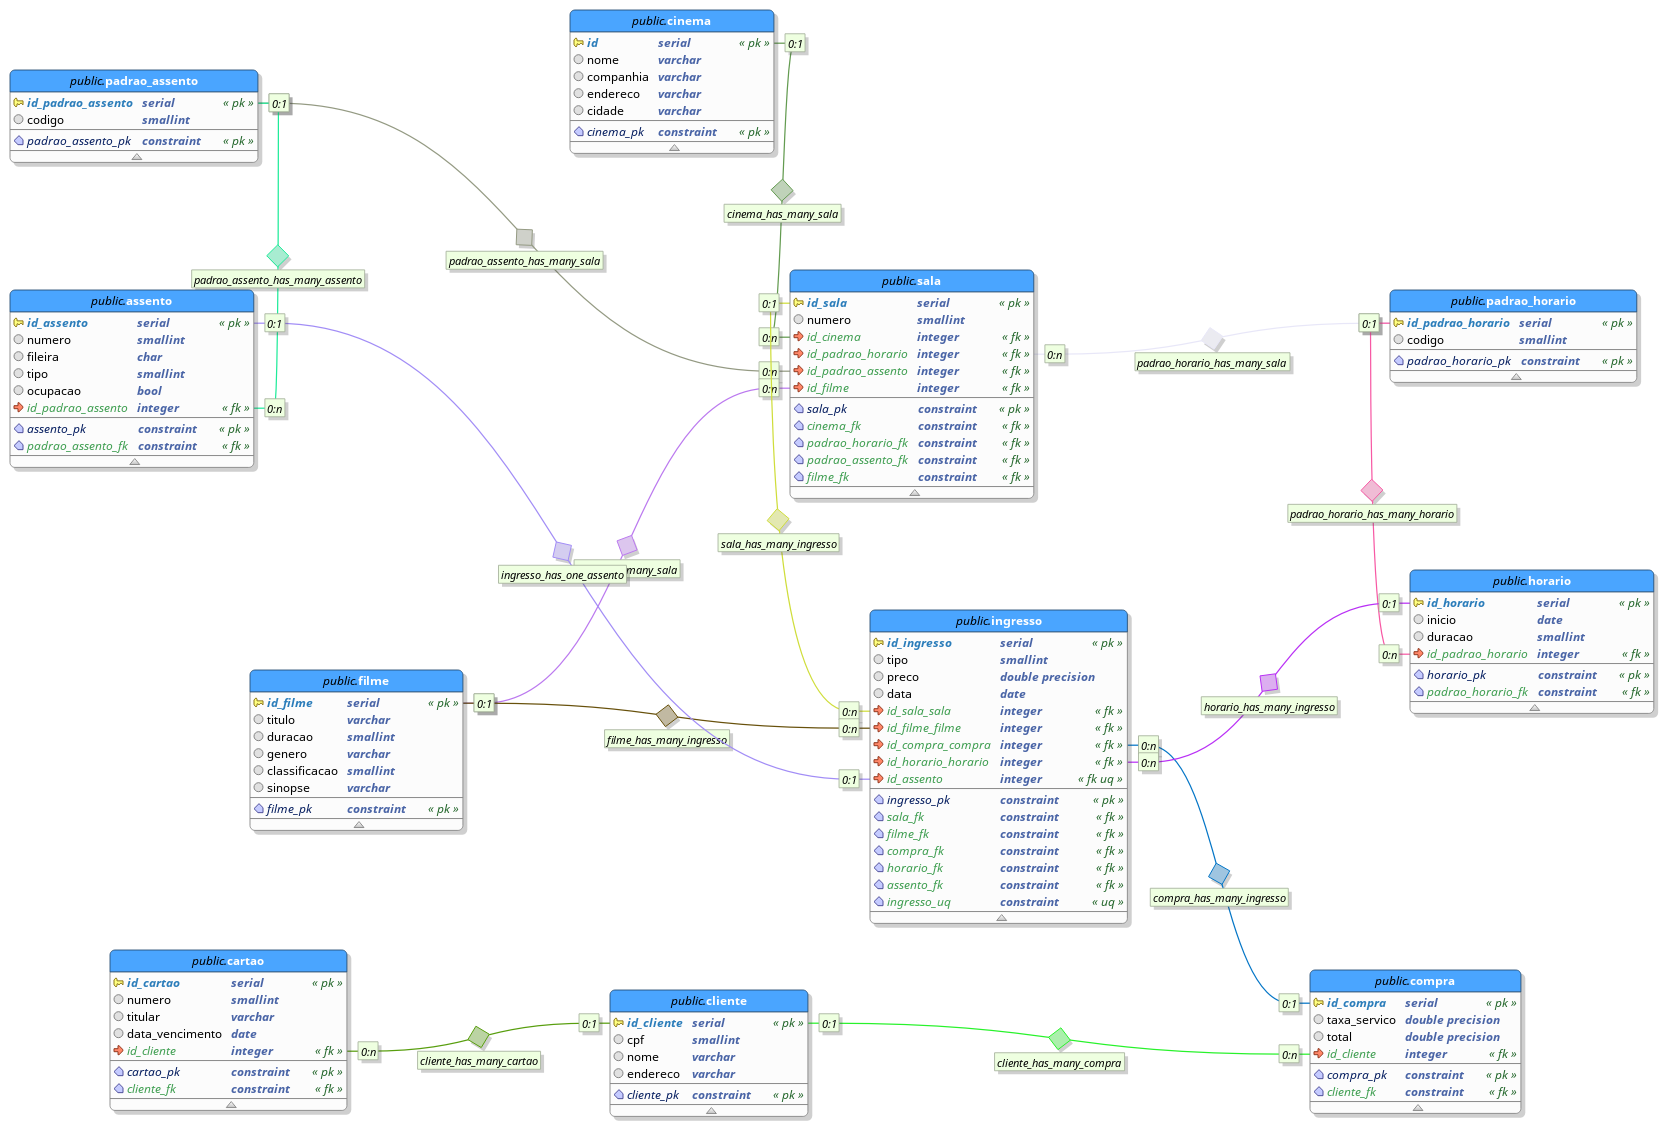
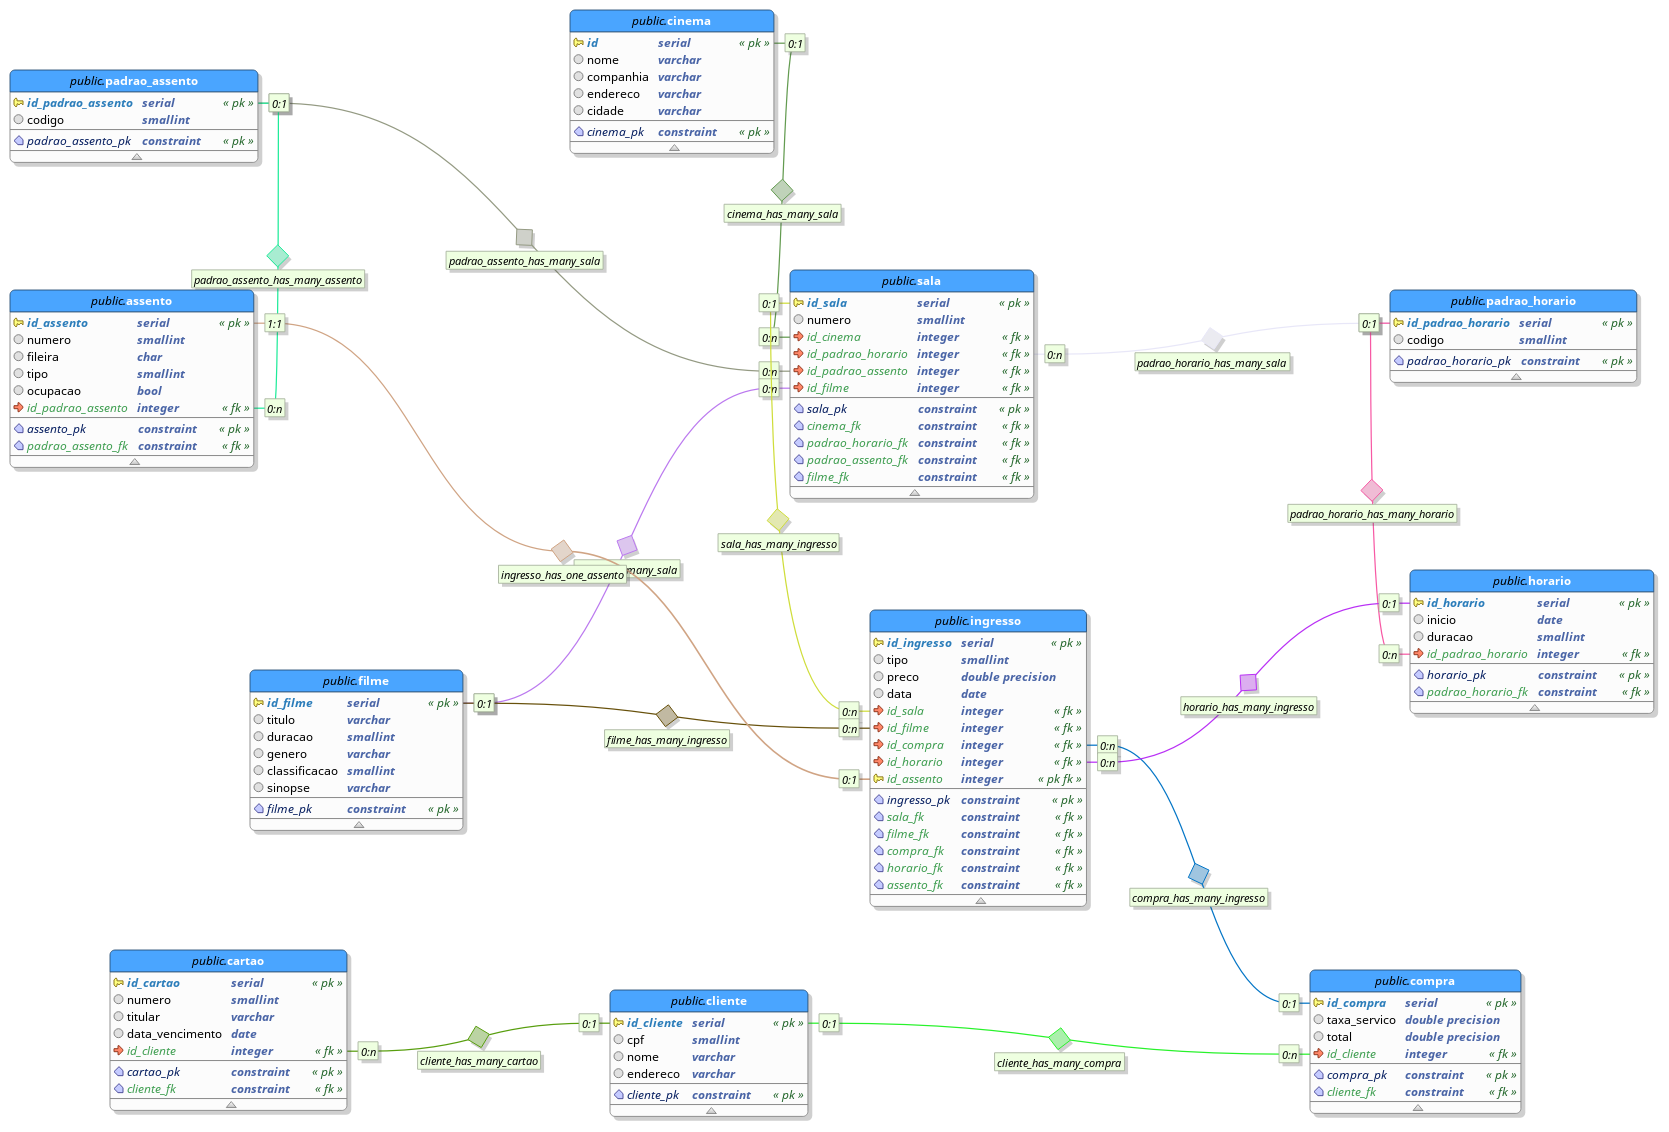
Api funcionando com os métodos básicos de inserção, consulta, update e delete.

Changed region(s): [[0.5297, 0.5256, 0.8101, 0.8348], [0.3116, 0.4638, 0.3427, 0.4947]]

diff --git a/queries.js b/queries.js
@@ -1,16 +1,16 @@
 // Arquivo com a configuração do banco de dados.
 const Pool = require('pg').Pool
 const pool = new Pool({
-	user: 'app',
+	user: 'postgres',
 	host: 'localhost',
-	database: 'cinema',
-	password: 'testeapp',
+	database: 'ingresso_app',
+	password: 'postgres',
 	port: '5432',
 }) 
 
 // Obtendo todos os ingressos.
 const getIngressos = (request, response) => {
-	pool.query('select * from ingresso order by id asc', (error, results) => {
+	pool.query('select * from ingresso order by id_ingresso asc', (error, results) => {
 		if (error) {
 			throw error
 		}
@@ -22,7 +22,7 @@ const getIngressos = (request, response) => {
 const getIngressoById = (request, response) => {
 	const id = parseInt(request.params.id)
 
-	pool.query('select * from ingresso where id = $1', [id], (error, results) => {
+	pool.query('select * from ingresso where id_ingresso = $1', [id], (error, results) => {
 		if (error) {
 			throw error
 		}
@@ -33,9 +33,9 @@ const getIngressoById = (request, response) => {
 // Gravando um ingresso.
 const createIngresso = (request, response) => {
 	// Campos que iremos persistir.
-	const { tipo, preco, assento, horario, data } = request.body
+	const { tipo, preco, data, id_sala, id_filme, id_compra, id_horario, id_assento } = request.body
 
-	pool.query('insert into ingresso (tipo, preco, assento, horario, data) values ($1, $2, $3, $4, $5)', [tipo, preco, assento, horario, data], (error, results) => {
+	pool.query('insert into ingresso (tipo, preco, data, id_sala, id_filme, id_compra, id_horario, id_assento) values ($1, $2, $3, $4, $5, $6, $7, $8)', [tipo, preco, data, id_sala, id_filme, id_compra, id_horario, id_assento], (error, results) => {
 		if (error) {
 			throw error
 		}
@@ -46,11 +46,11 @@ const createIngresso = (request, response) => {
 // Atualizar um ingresso.
 const updateIngresso = (request, response) => {
 	const id = parseInt(request.params.id)
-	const { tipo, preco, assento, horario, data } = request.body
+	const { tipo, preco, data, id_sala, id_filme, id_compra, id_horario, id_assento } = request.body
 
 	pool.query(
-		'update ingresso set tipo = $1, preco = $2, assento = $3, horario = $4, data = $5 where id $6',
-		[tipo, preco, assento, horario, data],
+		'update ingresso set tipo = $1, preco = $2, data = $3, id_sala = $4, id_filme = $5, id_compra = $6, id_horario = $7, id_assento = $8 where id_ingresso = $9',
+		[tipo, preco, data, id_sala, id_filme, id_compra, id_horario, id_assento, id],
 		(error, results) => {
 			if (error) {
 				throw error
@@ -63,7 +63,7 @@ const updateIngresso = (request, response) => {
 const deleteIngresso = (request, response) => {
 	const id = parseInt(request.params.id)
 
-	pool.query('delete from users where id = $1', [id], (error, results) => {
+	pool.query('delete from ingresso where id_ingresso = $1', [id], (error, results) => {
 		if (error) {
 			throw error
 		}

diff --git a/index.js b/index.js
@@ -19,10 +19,10 @@ app.get('/', (request, response) => {
 
 // Rotas por url.
 app.get('/ingressos', db.getIngressos)
-app.get('/ingressos/id', db.getIngressoById)
+app.get('/ingressos/:id', db.getIngressoById)
 app.post('/ingressos', db.createIngresso)
-app.put('/ingresso/:id', db.updateIngresso)
-app.delete('/ingresso/:id', db.deleteIngresso)
+app.put('/ingressos/:id', db.updateIngresso)
+app.delete('/ingressos/:id', db.deleteIngresso)
 
 app.listen(port, () => {
 	console.log('App running on port ${port}.')

diff --git a/README.md b/README.md
@@ -39,13 +39,12 @@ su - postgres psql
 
 ### Criando um usuário para a aplicação e garantindo privilégios
 ``` sql
-CREATE ROLE app WITH LOGIN PASSWORD 'testeapp';
-ALTER ROLE app CREATEDB;
-CREATE DATABASE "cinema" OWNER "app";
+CREATE DATABASE "ingresso_app" OWNER "postgres";
+GRANT ALL PRIVILEGES ON DATABASE ingresso_app to postgres;
 \q -- sair do PostgreSQL.
 ```
 
-Pedimos que nesse momento o script seja executado via PgAdmin para criação das tabelas do banco.
+Pedimos que nesse momento o script seja executado via PgAdmin para criação das tabelas do banco. Há o script <code>db_files/ingresso_app.sql</code> responsável pela criação das tabelas. O script <code>db_files/popula.sql</code> é responsável pelo preenchimento do banco.
 
 ### Instalação da extensão para comunicação com o Banco de Dados.
 ``` shell
